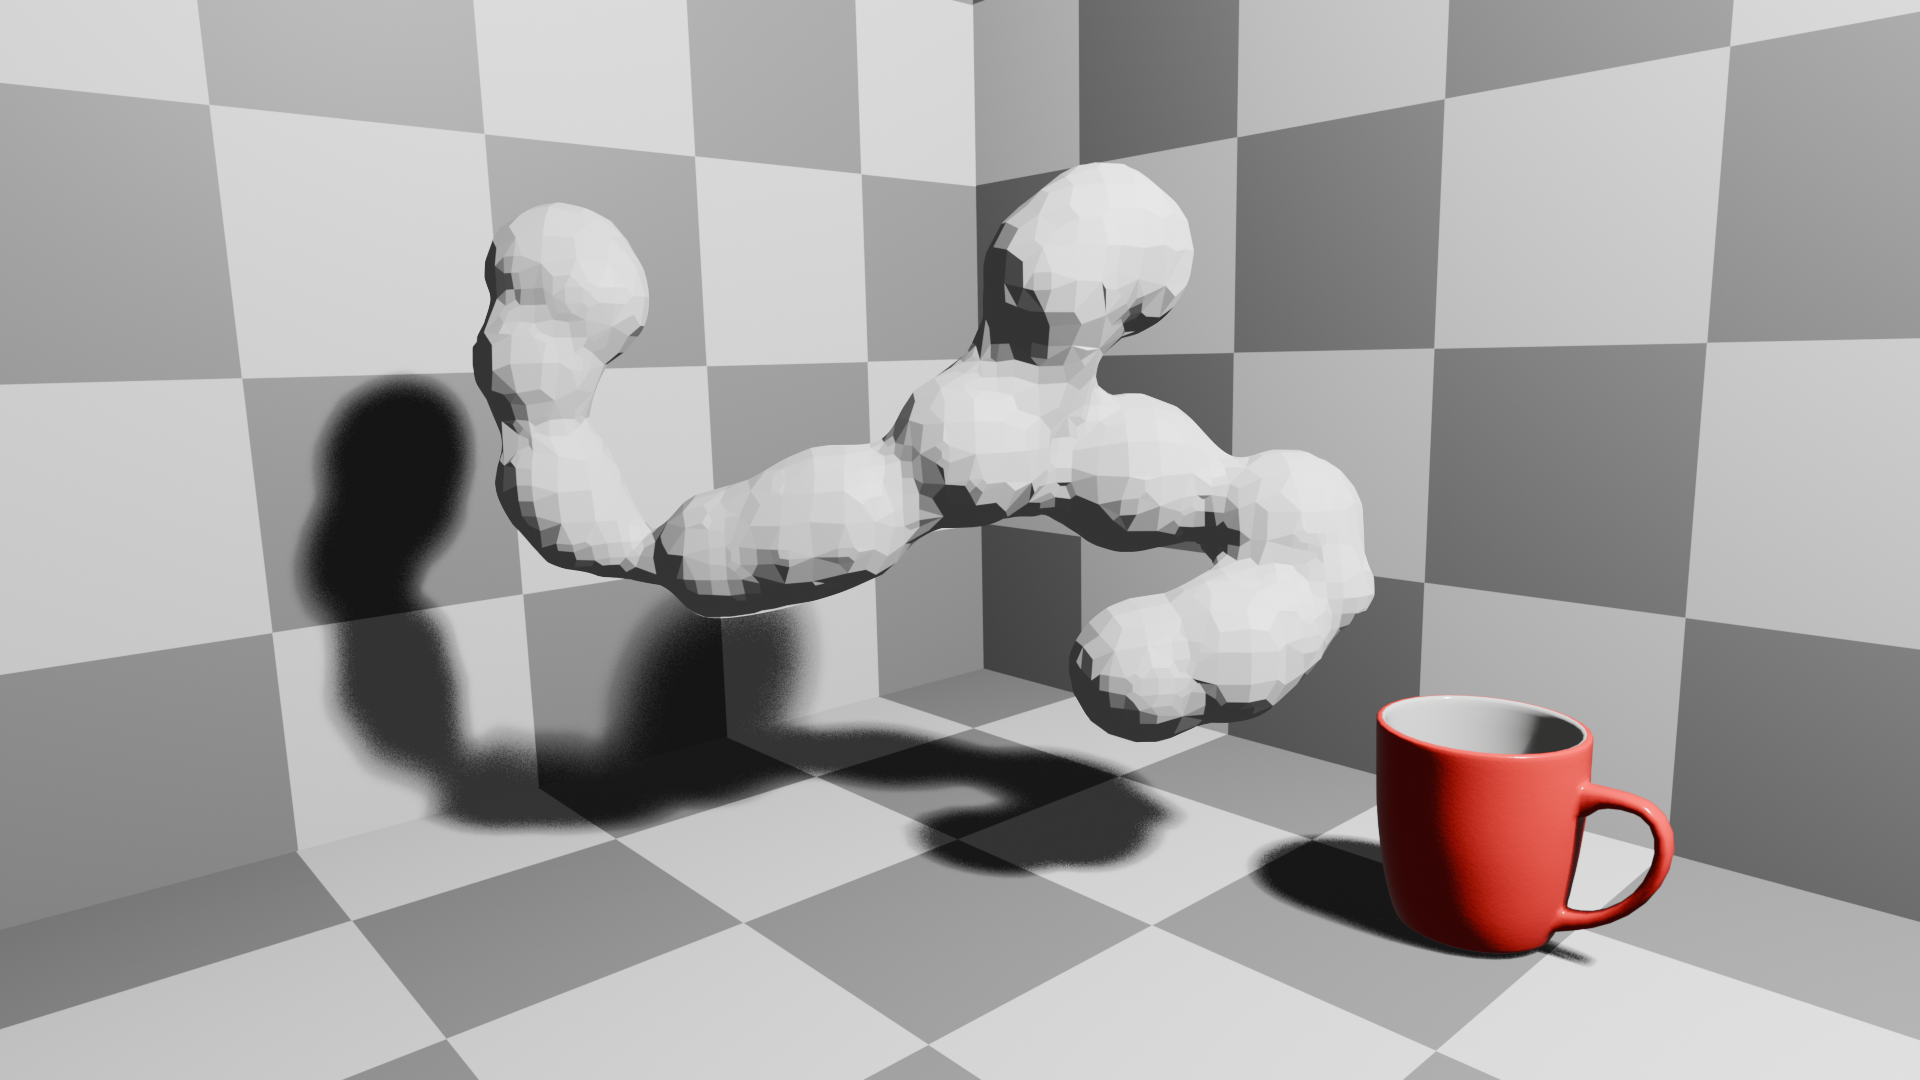
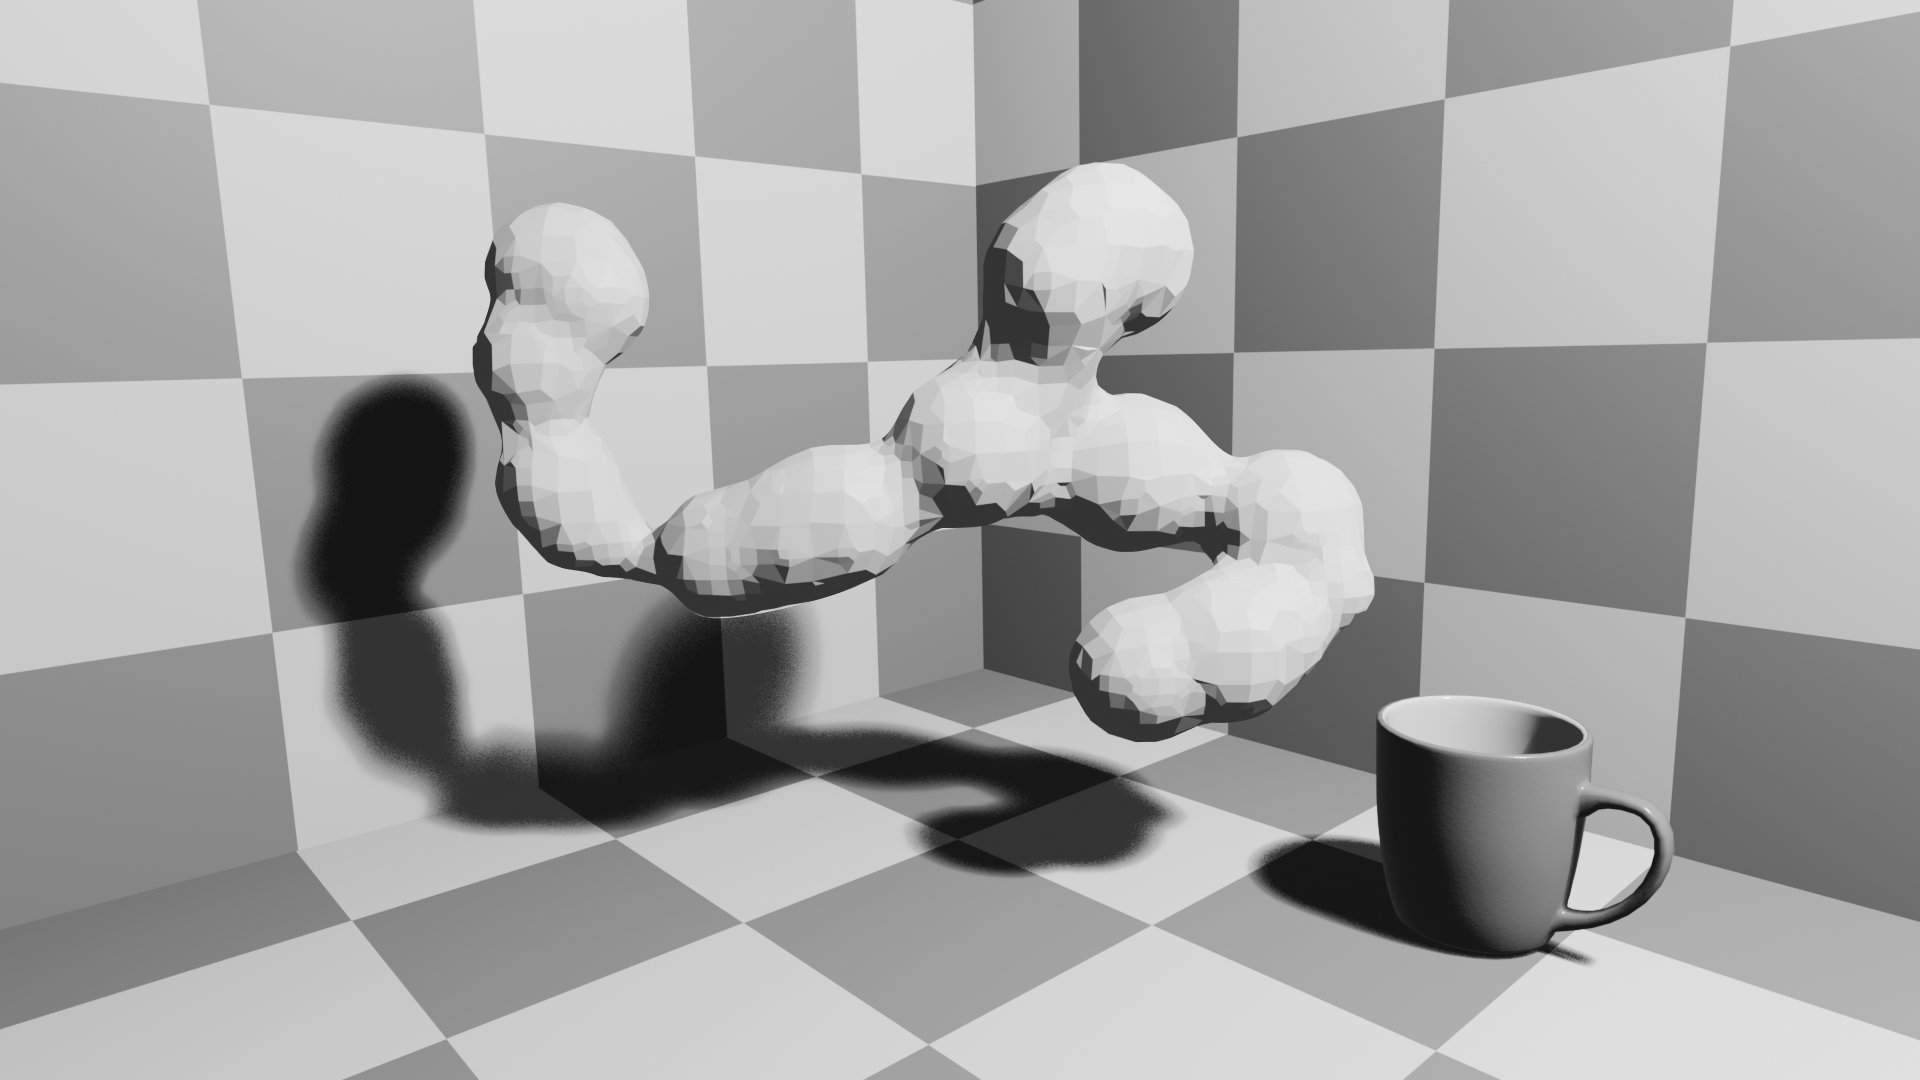
added mask_v3, changed images to b&w

Changed region(s): [[0.7188, 0.6722, 0.875, 0.8861]]

diff --git a/src/js/core/instructions.js b/src/js/core/instructions.js
@@ -64,7 +64,7 @@ function loadInstrContent() {
         /* ind0 */ `<p>Hello! Thank you for participating in our study. Please take a moment to adjust your seating so that you can comfortably watch the monitor and use the keyboard. Feel free to dim the lights as well.</p><p>Close the door or do whatever is necessary to <b>minimize disturbance during the experiment</b>. Please also take a moment to silence your phone so that you are not interrupted by any messages mid-experiment. Do <i>not</i> switch to any other tabs or windows until you are complete.</p>`,
         /* ind1 */ `<p>In this quick experiment, you will first see see an empty frame appear on screen. <img src = "${stimFolder}frame.png" style="width: ${imgWidth}px; display: block; margin: 0 auto;"></p>`,
         /* ind2 */ `<p> After a short delay, a black and white image will flash on the screen for an <i>extremely short amount of time</i>. Your task is to take in as many details as possible, and remember this image. </p> </div>It will be difficult! And that is as intended.`,
-        /* ind3 */ `<p>After this black and white image flashes on screen, it will get immediately covered up by the chaotic image below, just to make it hard for you to remember the first image! Ignore this image, as it will disappear quickly as well.<img src="${stimFolder}mask_v2.png" style="width: ${imgWidth}px; display: block; margin: 0 auto;"></p>`,
+        /* ind3 */ `<p>After this black and white image flashes on screen, it will get immediately covered up by the chaotic image below, just to make it hard for you to remember the first image! Ignore this image, as it will disappear quickly as well.<img src="${stimFolder}mask_v3.png" style="width: ${imgWidth}px; display: block; margin: 0 auto;"></p>`,
         /* ind4 */ `<p> Once all the images disappear, you will presented with 4 options. You will have <b> 10 seconds</b> to click on the option that matches your memory of the <b>very first image</b> that was flashed.</p><p>Sometimes, you may be unsure of your answer. In times like this, just give it your <b>best guess</b>, as we are interested in your <i>gut intuition</i>.</p><p>Please do your very best to remain as focused and attentive as possible. You will only have <b>one attempt</b> at this task! Get ready!`,
     ];
 

diff --git a/src/js/core/timeline.js b/src/js/core/timeline.js
@@ -163,15 +163,15 @@ INSTR PROCEDURE (*sec_instr)
 
 // forPreload.push(`${stimFolder}demo-circles.png`);
 // make sure to load any images you need for the demo itself. Usually you have different demo images than the main expt, such that you don't give away the content of the expt itself (but still give the participant practice and familiarity with the task. In this case, though, the demo images themselves are identical to the main expt. Variable names are the only difference.
-var demo_circle_colors = ["blue","orange"];
-var demo_display_durations = [200, 500];
+//var demo_circle_colors = ["blue","orange"];
+//var demo_display_durations = [200, 500];
 //for (var i = 0; i < demo_circle_colors.length; i++) {
 //    forPreload.push(`${stimFolder}${demo_circle_colors[i]}-circle.png`);
 // }
 
 //decide what the parameters for the demo trial should be. Sometimes you hardcode this, sometimes you randomly choose from the options you defined above.
-var thisDemoCircle = randomChoice(demo_circle_colors,1)[0];
-var thisDemoDispDuration = randomChoice(demo_display_durations,1)[0];
+//var thisDemoCircle = randomChoice(demo_circle_colors,1)[0];
+//var thisDemoDispDuration = randomChoice(demo_display_durations,1)[0];
 
 /* -------  Push Instr + Demo Trials to timeline_instr (*push_instr) -------------- */
 var instrContent = loadInstrContent();

diff --git a/src/js/core/trial.js b/src/js/core/trial.js
@@ -72,7 +72,7 @@ function runSingleTrial(
 
     var mask = {
         type: jsPsychHtmlKeyboardResponse,
-        stimulus: `${persistent_prompt}<img src="${stimFolder}mask_v2.png" style="width: ${imgWidth}px;">`,
+        stimulus: `${persistent_prompt}<img src="${stimFolder}mask_v3.png" style="width: ${imgWidth}px;">`,
         choices: "NO_KEYS",
         trial_duration: MASK_DISP_TIME,
         data: {
